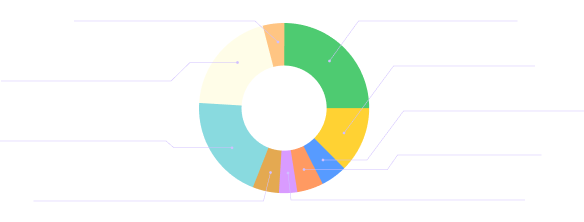
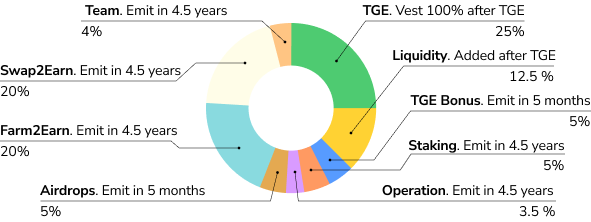
GITBOOK-661: No subject

diff --git a/dao-and-tokenomics/tokenomics.md b/dao-and-tokenomics/tokenomics.md
@@ -15,7 +15,7 @@ circulatingSupply = totalSupply - zfBurned - zfStakedInGovernanceV1Pool - zfStak
 
 
 
-<figure><img src="../.gitbook/assets/Tokenomics_-_Docs.png" alt=""><figcaption></figcaption></figure>
+<figure><img src="../.gitbook/assets/Piechart.png" alt=""><figcaption></figcaption></figure>
 
 ### 2. Token Emission Schedule
 
